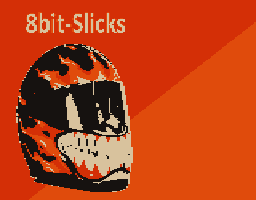
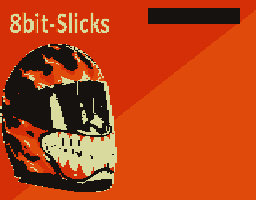
NES: fixes and improvement to Slick demo.

Changed region(s): [[0.0, 0.03, 1.0, 1.0], [0.0312, 0.06, 0.5, 0.18]]

diff --git a/projects/slicks/src/game.c b/projects/slicks/src/game.c
@@ -177,19 +177,23 @@ void GameReset()
 	if (gameStep == STEP_WARMUP) {
         if (gameMode == MODE_ONLINE) {
 		#if defined __CBM__
-            PrintBuffer("  WARMUP: F1-RACE, F3-NEXT MAP, C-CHAT  ");   
+            PrintBuffer("  WARMUP: F1=RACE, F3=NEXT MAP, C=CHAT  ");   
 		#elif defined __LYNX__
-            PrintBuffer("   WARMUP: OP1-RACE, PAU-MENU, B-CHAT   ");   
+            PrintBuffer("   WARMUP: OP1=RACE, PAU=MENU, B=CHAT   ");   
+		#elif defined __NES__
+            PrintBuffer("WARMUP: STA=RACE,SEL=MENU,B=CHAT");   
 		#else
-            PrintBuffer("   WARMUP: 1-RACE, 2-NEXT MAP, C-CHAT   ");   
+            PrintBuffer("   WARMUP: 1=RACE, 2=NEXT MAP, C=CHAT   ");   
 		#endif
         } else {
 		#if defined __CBM__
-            PrintBuffer("  WARMUP: F1-RACE, F3-NEXT MAP, Q-Quit  ");   
+            PrintBuffer("  WARMUP: F1=RACE, F3=NEXT MAP, Q=Quit  ");   
 		#elif defined __LYNX__
-            PrintBuffer("  WARMUP: OP1-RACE, PAU-MENU, RS-Quit   ");   
+            PrintBuffer("  WARMUP: OP1=RACE, PAU=MENU, RS=Quit   ");   
+		#elif defined __NES__
+            PrintBuffer("   WARMUP: STA=RACE, SEL=MENU   ");   
 		#else
-            PrintBuffer("   WARMUP: 1-RACE, 2-NEXT MAP, Q-Quit   ");   
+            PrintBuffer("   WARMUP: 1=RACE, 2=NEXT MAP, Q=Quit   ");   
 		#endif
         }
 	} else {
@@ -201,7 +205,7 @@ void GameReset()
 // Initialize Game
 void GameInit(const char* map)
 {
-	char i, slot, len, buffer[13];
+	char i, len, buffer[13];
 	
 	// Assign clock dependent physics params
 	tck4 = 4*TCK_PER_SEC;
@@ -243,14 +247,14 @@ void GameInit(const char* map)
         for (i=0; i<MAX_PLAYERS; ++i) {
             // Print player numbers in score board
             if (controlIndex[i]) {
-				slot = (i+1)*8;
                 inkColor = inkColors[i]; 
+				txtX = SLOT_COL1 + SLOT_WIDTH*i;
 				txtY = TXT_ROWS-1;
 			#if defined __ORIC__
-				txtX = slot-1; SetAttributes(inkColor);
+				txtX--; SetAttributes(inkColor); txtX++; 
 			#endif					
-                txtX = slot;   PrintChr('p');
-				txtX = slot+1; PrintChr(CHR_DIGIT+1+i);
+				PrintChr('p'); txtX++;
+				PrintChr(CHR_DIGIT+1+i);
             }
         }
         // Initiate laps
@@ -757,8 +761,8 @@ char GameLoop()
 			if (iJmp)	
 				JumpSFX(i);
 			else
-		#endif
 			if (iVel < velDrift || deltaAngle < 25)
+		#endif
 				EngineSFX(i, iVel);
 		#if defined __LYNX__	
 			else

diff --git a/projects/slicks/src/slicks.c b/projects/slicks/src/slicks.c
@@ -36,7 +36,7 @@
   #define spriteRows    8
   const unsigned char spriteColors[] = { PAL_BLACK, PAL_BLUE, PAL_CYAN, PAL_GREY,  PAL_BLACK, PAL_RED, PAL_CYAN, PAL_GREY, 
 										 PAL_BLACK, PAL_GREEN, PAL_CYAN, PAL_GREY, PAL_BLACK, PAL_YELLOW, PAL_CYAN, PAL_GREY }; // 4 palettes of 4 colors
-  const unsigned char inkColors[] = { BLUE, RED, LGREEN, YELLOW, WHITE };		// P1, P2, P3, P4	
+  const unsigned char inkColors[] = { BLUE, RED, GREEN, YELLOW, WHITE };		// P1, P2, P3, P4	
 #endif
 
 // Build Information

diff --git a/projects/slicks/src/interface.c b/projects/slicks/src/interface.c
@@ -71,8 +71,8 @@
 	#define MENU_BLD TXT_ROWS-1
 #elif defined __NES__
 	#define MENU_COL 14
-	#define MENU_ROW  2
-	#define MENU_WID 17
+	#define MENU_ROW  4
+	#define MENU_WID 18
 	#define MENU_HEI 16
 	#define MENU_BLD TXT_ROWS-2
 #else
@@ -611,7 +611,7 @@ void SpriteAnimation(unsigned char index, unsigned char frame)
 	spriteY = 6;
 #elif defined __NES__
 	spriteX = 160+index*21; 
-	spriteY = 24;
+	spriteY = 31;
 #endif		
 #if defined __ATARI__
 	SetMultiColorSprite(2*index, frame);

diff --git a/projects/slicks/src/navigation.c b/projects/slicks/src/navigation.c
@@ -44,13 +44,10 @@ void LoadNavigation(char *filename)
   #elif defined __ATARI__
 	FileOpen(filename);
 	FileRead(buffer, 128);
-  #elif defined __ORIC__
-	FileRead(filename, buffer);
   #elif defined __LYNX__
 	FileRead(filename);
-  #elif defined __NES__
-	p = FileRead(filename);
-	memcpyBanked(buffer, p, 128, 1);
+  #elif defined(__NES__) || defined(__ORIC__)
+	FileRead(filename, buffer);
   #elif defined __CBM__
 	FILE* fp = fopen(filename, "rb");
 	fread(buffer, 1, 128, fp);

diff --git a/projects/slicks/src/definitions.h b/projects/slicks/src/definitions.h
@@ -46,6 +46,12 @@
 
 // Interface definitions
 #define ROW_CHAT (TXT_ROWS-2)
+#define SLOT_COL1 8
+#if defined __NES__
+  #define SLOT_WIDTH 6
+#else
+  #define SLOT_WIDTH 8
+#endif	
 
 // Sprite definitions
 #if defined __APPLE2__
